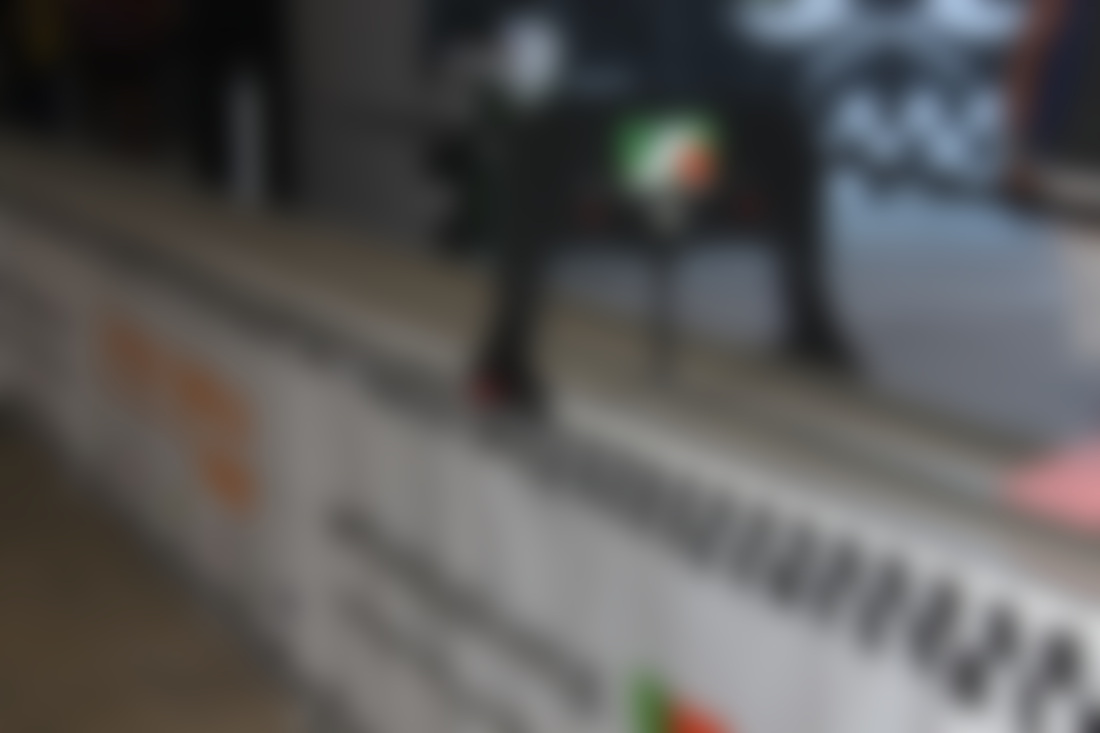
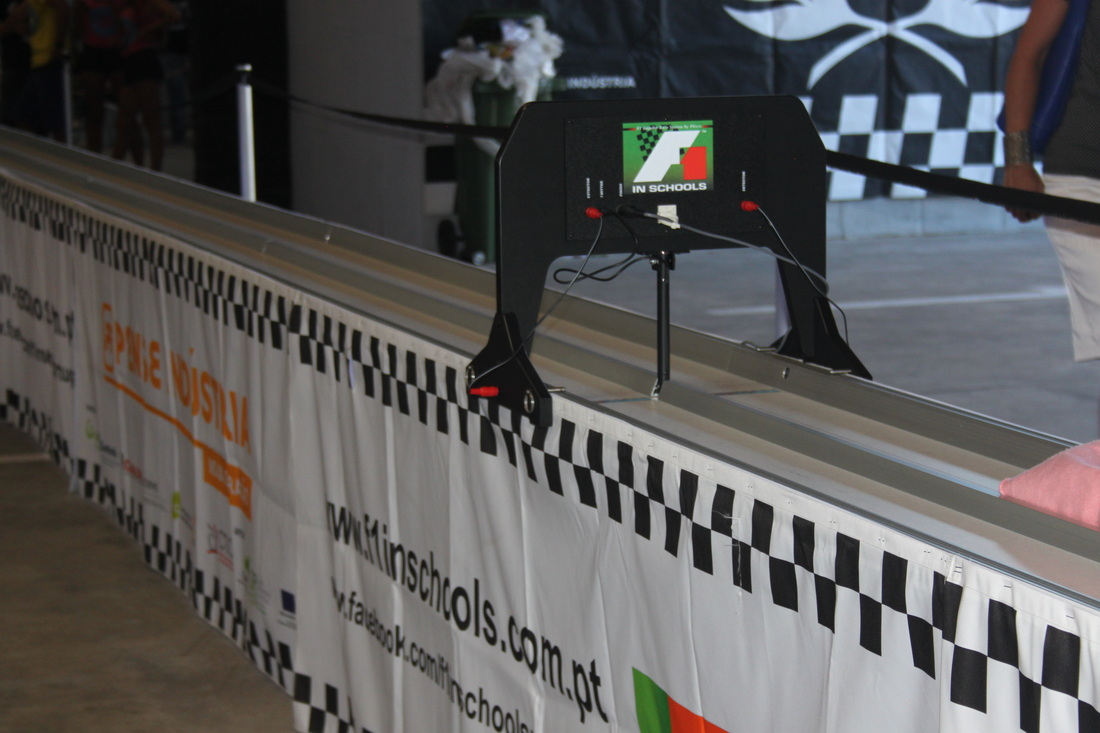
Blurrier F1iS and contact us background images

diff --git a/index.html b/index.html
@@ -124,7 +124,7 @@
             </div>
         </section>
         
-        <section id="contact" data-bg="/assets/img/racetrack.jpg">
+        <section id="contact" data-bg="/assets/img/racetrack-blurred.jpg">
             <h2>Contact us</h2>
             <div class="flex-container">
                 <div>
